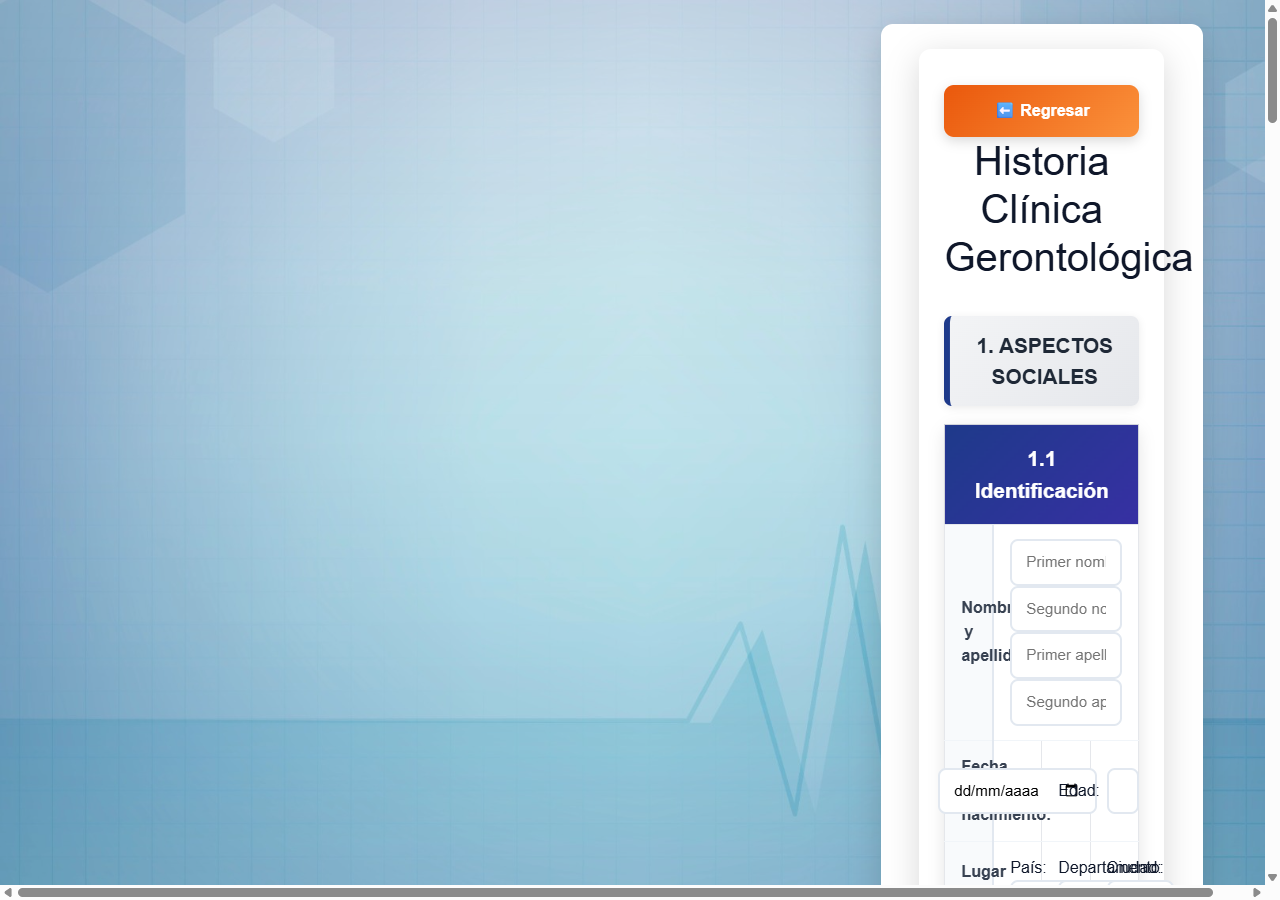
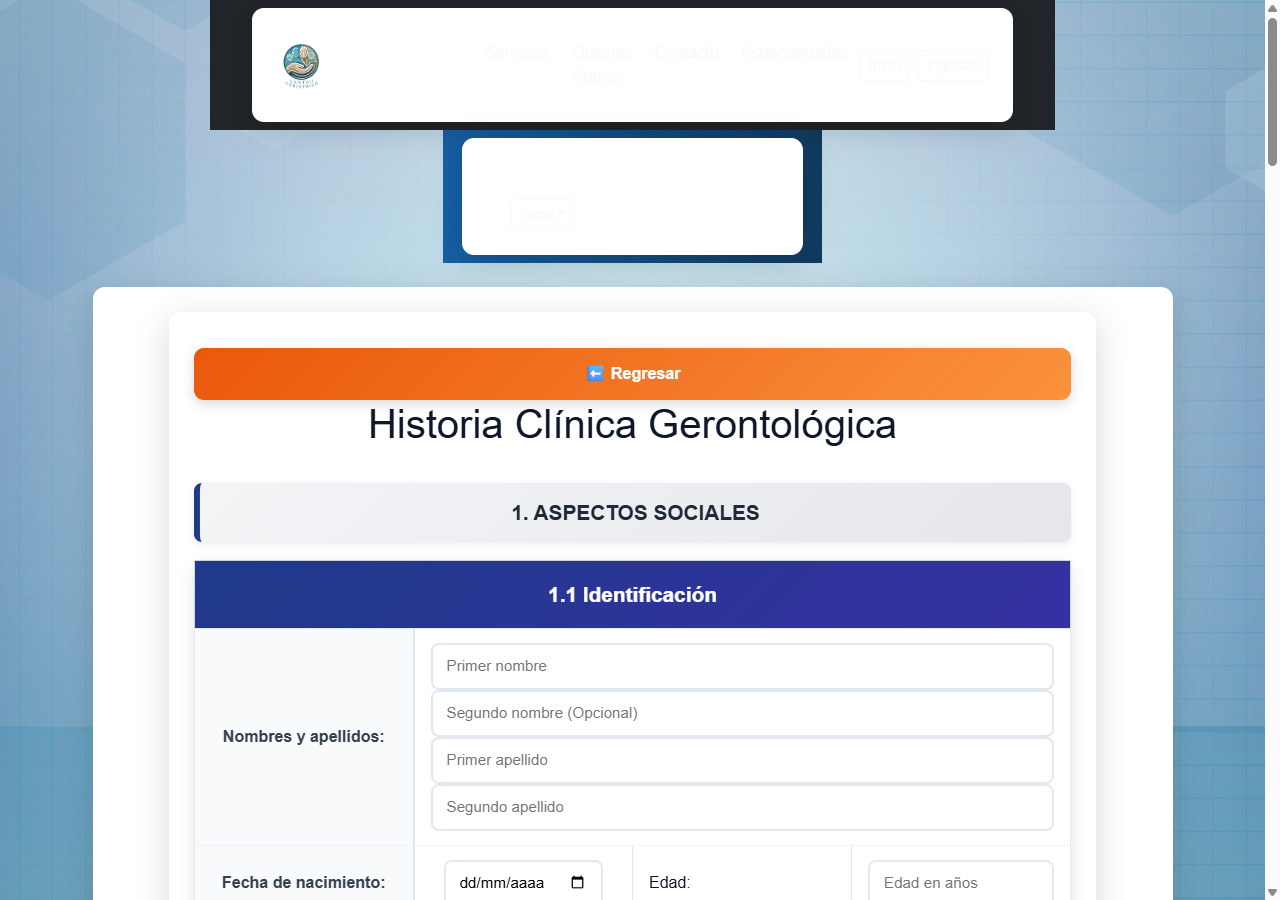
fix(layout): keep navbar at top and footer at bottom on login

diff --git a/myapp/templates/module_base.html b/myapp/templates/module_base.html
@@ -18,7 +18,7 @@
         .no-module-topbar .module-wrapper{ margin-top: 0 !important; }
     </style>
 </head>
-<body class="{% block body_class %}{% endblock %}">
+<body class="app-shell {% block body_class %}{% endblock %}">
     <nav class="navbar navbar-dark bg-dark navbar-expand-lg main-navbar">
         <div class="container">
             <a class="navbar-brand me-3" href="{% url 'home' %}">
@@ -78,7 +78,7 @@
         </div>
     </div>
 
-    <main>
+    <main class="app-main">
         <div class="module-wrapper">
             <div class="container my-4">
                 {% block content %}{% endblock %}

diff --git a/myapp/static/css/global.css b/myapp/static/css/global.css
@@ -21,6 +21,17 @@ body {
     color: var(--text);
 }
 
+/* Global app shell: navbar on top, footer at bottom */
+body.app-shell {
+    min-height: 100vh;
+    display: flex;
+    flex-direction: column;
+}
+
+.app-main {
+    flex: 1 0 auto;
+}
+
 /* Accessible button baseline */
 .btn-primary {
     background: var(--accent-2);

diff --git a/myapp/static/css/login.css b/myapp/static/css/login.css
@@ -18,9 +18,6 @@ body {
     background-repeat: no-repeat;
     background-size: cover;
     background-attachment: fixed;
-    display: flex;
-    align-items: center;
-    justify-content: center;
 }
 
 
